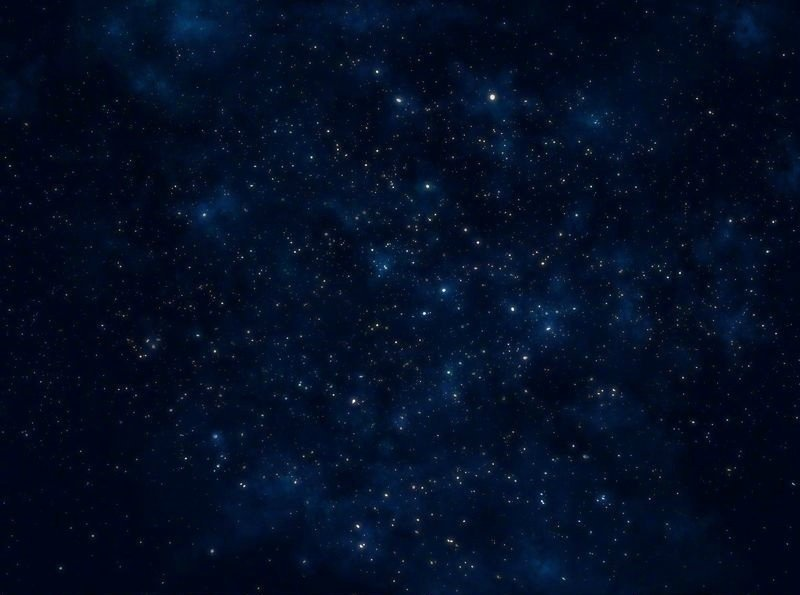
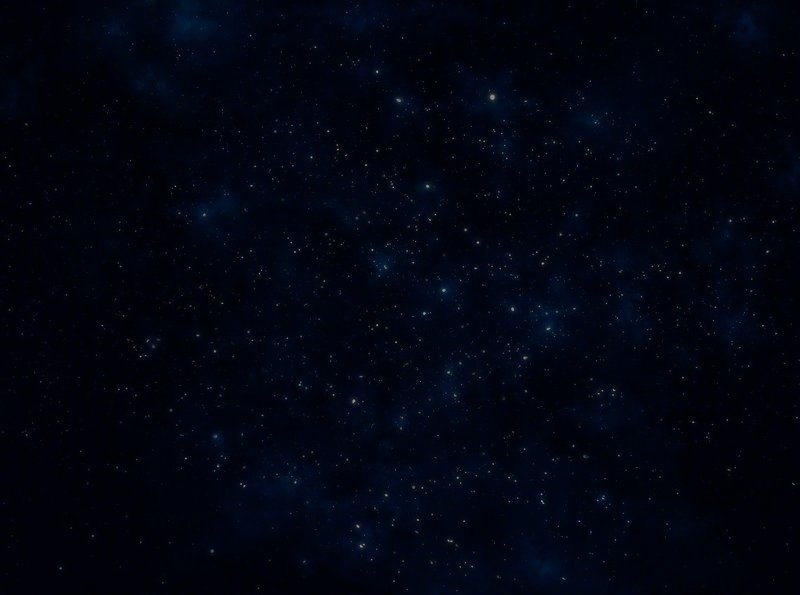
change background

diff --git a/src/assets/sass/lbd/_typography.scss b/src/assets/sass/lbd/_typography.scss
@@ -1,91 +1,154 @@
 /*           Font Smoothing      */
+
 body,
-h1, .h1, 
-h2, .h2, 
-h3, .h3, 
-h4, .h4, 
-h5, .h5, 
-h6, .h6, 
-p, 
-.navbar, 
-.brand, 
+h1,
+.h1,
+h2,
+.h2,
+h3,
+.h3,
+h4,
+.h4,
+h5,
+.h5,
+h6,
+.h6,
+p,
+.navbar,
+.brand,
 .btn-simple,
-.alert, 
-a, 
-.td-name, 
+.alert,
+a,
+.td-name,
 td,
-button.close{
+button.close {
     -moz-osx-font-smoothing: grayscale;
     -webkit-font-smoothing: antialiased;
-    font-family: "Roboto","Helvetica Neue",Arial,sans-serif;
+    font-family: "Roboto", "Helvetica Neue", Arial, sans-serif;
     font-weight: $font-weight-normal;
 }
 
-h1, .h1, h2, .h2, h3, .h3, h4, .h4{
+h1,
+.h1,
+h2,
+.h2,
+h3,
+.h3,
+h4,
+.h4 {
     font-weight: $font-weight-light;
     margin: $margin-large-vertical 0 $margin-base-vertical;
 }
 
-h1, .h1 {
+h1,
+.h1 {
     font-size: $font-size-h1;
 }
-h2, .h2{
+
+h2,
+.h2 {
     font-size: $font-size-h2;
 }
-h3, .h3{
+
+h3,
+.h3 {
     font-size: $font-size-h3;
     margin: 20px 0 10px;
 }
-h4, .h4{
+
+h4,
+.h4 {
     font-size: $font-size-h4;
     line-height: 30px;
 }
-h5, .h5 {
+
+h5,
+.h5 {
     font-size: $font-size-h5;
     margin-bottom: 15px;
 }
-h6, .h6{
+
+h6,
+.h6 {
     font-size: $font-size-h6;
     font-weight: $font-weight-bold;
     text-transform: uppercase;
 }
-p{
+
+p {
     font-size: $font-paragraph;
     line-height: $line-height-general;
 }
 
-h1 small, h2 small, h3 small, h4 small, h5 small, h6 small, .h1 small, .h2 small, .h3 small, .h4 small, .h5 small, .h6 small, h1 .small, h2 .small, h3 .small, h4 .small, h5 .small, h6 .small, .h1 .small, .h2 .small, .h3 .small, .h4 .small, .h5 .small, .h6 .small {
+h1 small,
+h2 small,
+h3 small,
+h4 small,
+h5 small,
+h6 small,
+.h1 small,
+.h2 small,
+.h3 small,
+.h4 small,
+.h5 small,
+.h6 small,
+h1 .small,
+h2 .small,
+h3 .small,
+h4 .small,
+h5 .small,
+h6 .small,
+.h1 .small,
+.h2 .small,
+.h3 .small,
+.h4 .small,
+.h5 .small,
+.h6 .small {
     color: $dark-gray;
     font-weight: $font-weight-light;
     line-height: $line-height-general;
 }
 
-h1 small, h2 small, h3 small, h1 .small, h2 .small, h3 .small {
+h1 small,
+h2 small,
+h3 small,
+h1 .small,
+h2 .small,
+h3 .small {
     font-size: 60%;
 }
 
-h1 .subtitle{
+h1 .subtitle {
     display: block;
-    margin: 0 0 $margin-large-vertical;   
+    margin: 0 0 $margin-large-vertical;
 }
 
-.text-muted{
+.text-muted {
     color: #9A9A9A;
 }
-.text-primary, .text-primary:hover{
-    color: #000000fd !important;
-    background-color: gray;
-}
-.text-info, .text-info:hover{
-    color: $info-color !important;
-}
-.text-success, .text-success:hover{
-    color: $success-color !important;
-}
-.text-warning, .text-warning:hover{
-    color: $warning-color !important;
-}
-.text-danger, .text-danger:hover{
-    color: $danger-color !important;
+
+.text-primary,
+.text-primary:hover {
+    color: #ffe384 !important;
+    // background-color: gray;
 }
 
+.text-info,
+.text-info:hover {
+    color: $info-color !important;
+}
+
+.text-success,
+.text-success:hover {
+    color: $success-color !important;
+}
+
+.text-warning,
+.text-warning:hover {
+    color: $warning-color !important;
+}
+
+.text-danger,
+.text-danger:hover {
+    color: $danger-color !important;
+}

diff --git a/src/pages/Login.vue b/src/pages/Login.vue
@@ -60,12 +60,12 @@ export default {
                 },
             })
                 .then((response) => {
-                    console.log(response);
+                    console.log(response.data);
                 })
-                // .catch((error) => {
-                //             // eslint-disable-next-line
-                //             console.log(error);
-                // });
+                .catch((error) => {
+                            // eslint-disable-next-line
+                            console.log(error);
+                });
             this.$router.push({ path: '/admin/askQuestionsChooseCompany' });
             // query 帶參數過去
             // https://router.vuejs.org/zh/guide/essentials/navigation.html
@@ -79,7 +79,8 @@ export default {
     width: 500px;
     height: 450px;
     border: 1px solid #cccccc;
-    /* background-color: #000000; */
+    background-color: white;
+    opacity: 0.85;
     margin: auto;
     margin-top: 80px;
     padding: 20px;

diff --git a/src/layout/DashboardLayout.vue b/src/layout/DashboardLayout.vue
@@ -3,8 +3,12 @@
     <side-bar>
       <mobile-menu slot="content"></mobile-menu>
       <sidebar-link to="/login">
-        <i class="nc-icon nc-atom"></i>
+        <i class="nc-icon nc-single-02"></i>
         <p>登入</p>
+      </sidebar-link>
+      <sidebar-link to="/register">
+        <i class="nc-icon nc-atom"></i>
+        <p>註冊</p>
       </sidebar-link>
       <sidebar-link to="/about">
         <i class="nc-icon nc-app"></i>

diff --git a/src/layout/DashboardLayoutTopNav.vue b/src/layout/DashboardLayoutTopNav.vue
@@ -3,8 +3,12 @@
     <side-bar>
       <mobile-menu slot="content"></mobile-menu>
       <sidebar-link to="/login">
-        <i class="nc-icon nc-atom"></i>
+        <i class="nc-icon nc-single-02"></i>
         <p>登入</p>
+      </sidebar-link>
+      <sidebar-link to="/register">
+        <i class="nc-icon nc-atom"></i>
+        <p>註冊</p>
       </sidebar-link>
       <sidebar-link to="/about">
         <i class="nc-icon nc-app"></i>

diff --git a/src/pages/About.vue b/src/pages/About.vue
@@ -125,7 +125,7 @@
   }
 </script>
 <style type="text/css">
-.content
+.main-panel
 {
   /*  background: linear-gradient(#062274, #2563f4); 
   background: url('../../public/img/report.png'); 
@@ -141,7 +141,7 @@
   );
   background-color:black;
   */
-  background: url('../../public/img/black.jpg'); 
+  background: url('../../public/img/star.jpg'); 
   background-repeat: no-repeat;
   background-size: cover;
   opacity: 0.9;

diff --git a/src/pages/Register.vue b/src/pages/Register.vue
@@ -82,8 +82,9 @@ export default {
 .register {
     width: 800px;
     height: 600px;
-    /* border: 1px solid #cccccc; */
-    /* background-color: #000000; */
+    border: 1px solid #cccccc;
+    background-color: white;
+    opacity: 0.85;
     margin: auto;
     margin-top: 80px;
     padding: 20px;

diff --git a/src/pages/AskQuestionsChooseCompany.vue b/src/pages/AskQuestionsChooseCompany.vue
@@ -109,9 +109,10 @@ export default {
 
 .chooseCompany {
     width: 500px;
-    height: 500px;
+    height: 400px;
     border: 1px solid #cccccc;
-  
+    background-color: white;
+    opacity: 0.85;
     margin: auto;
     margin-top: 80px;
     padding: 20px;

diff --git a/src/pages/RecordsChooseCompany.vue b/src/pages/RecordsChooseCompany.vue
@@ -82,9 +82,10 @@ export default {
 
 .chooseCompany {
     width: 500px;
-    height: 500px;
+    height: 300px;
     border: 1px solid #cccccc;
-   
+    background-color: white;
+    opacity: 0.85;
     margin: auto;
     margin-top: 80px;
     padding: 20px;

diff --git a/src/components/SidebarPlugin/SideBar.vue b/src/components/SidebarPlugin/SideBar.vue
@@ -57,7 +57,7 @@
       },
       backgroundImage: {
         type: String,
-        default: 'img/outer-space-manuel-dietrich-photography-e1505429618468-1.jpg'
+        default: 'img/black.jpg'
       },
       activeColor: {
         type: String,
